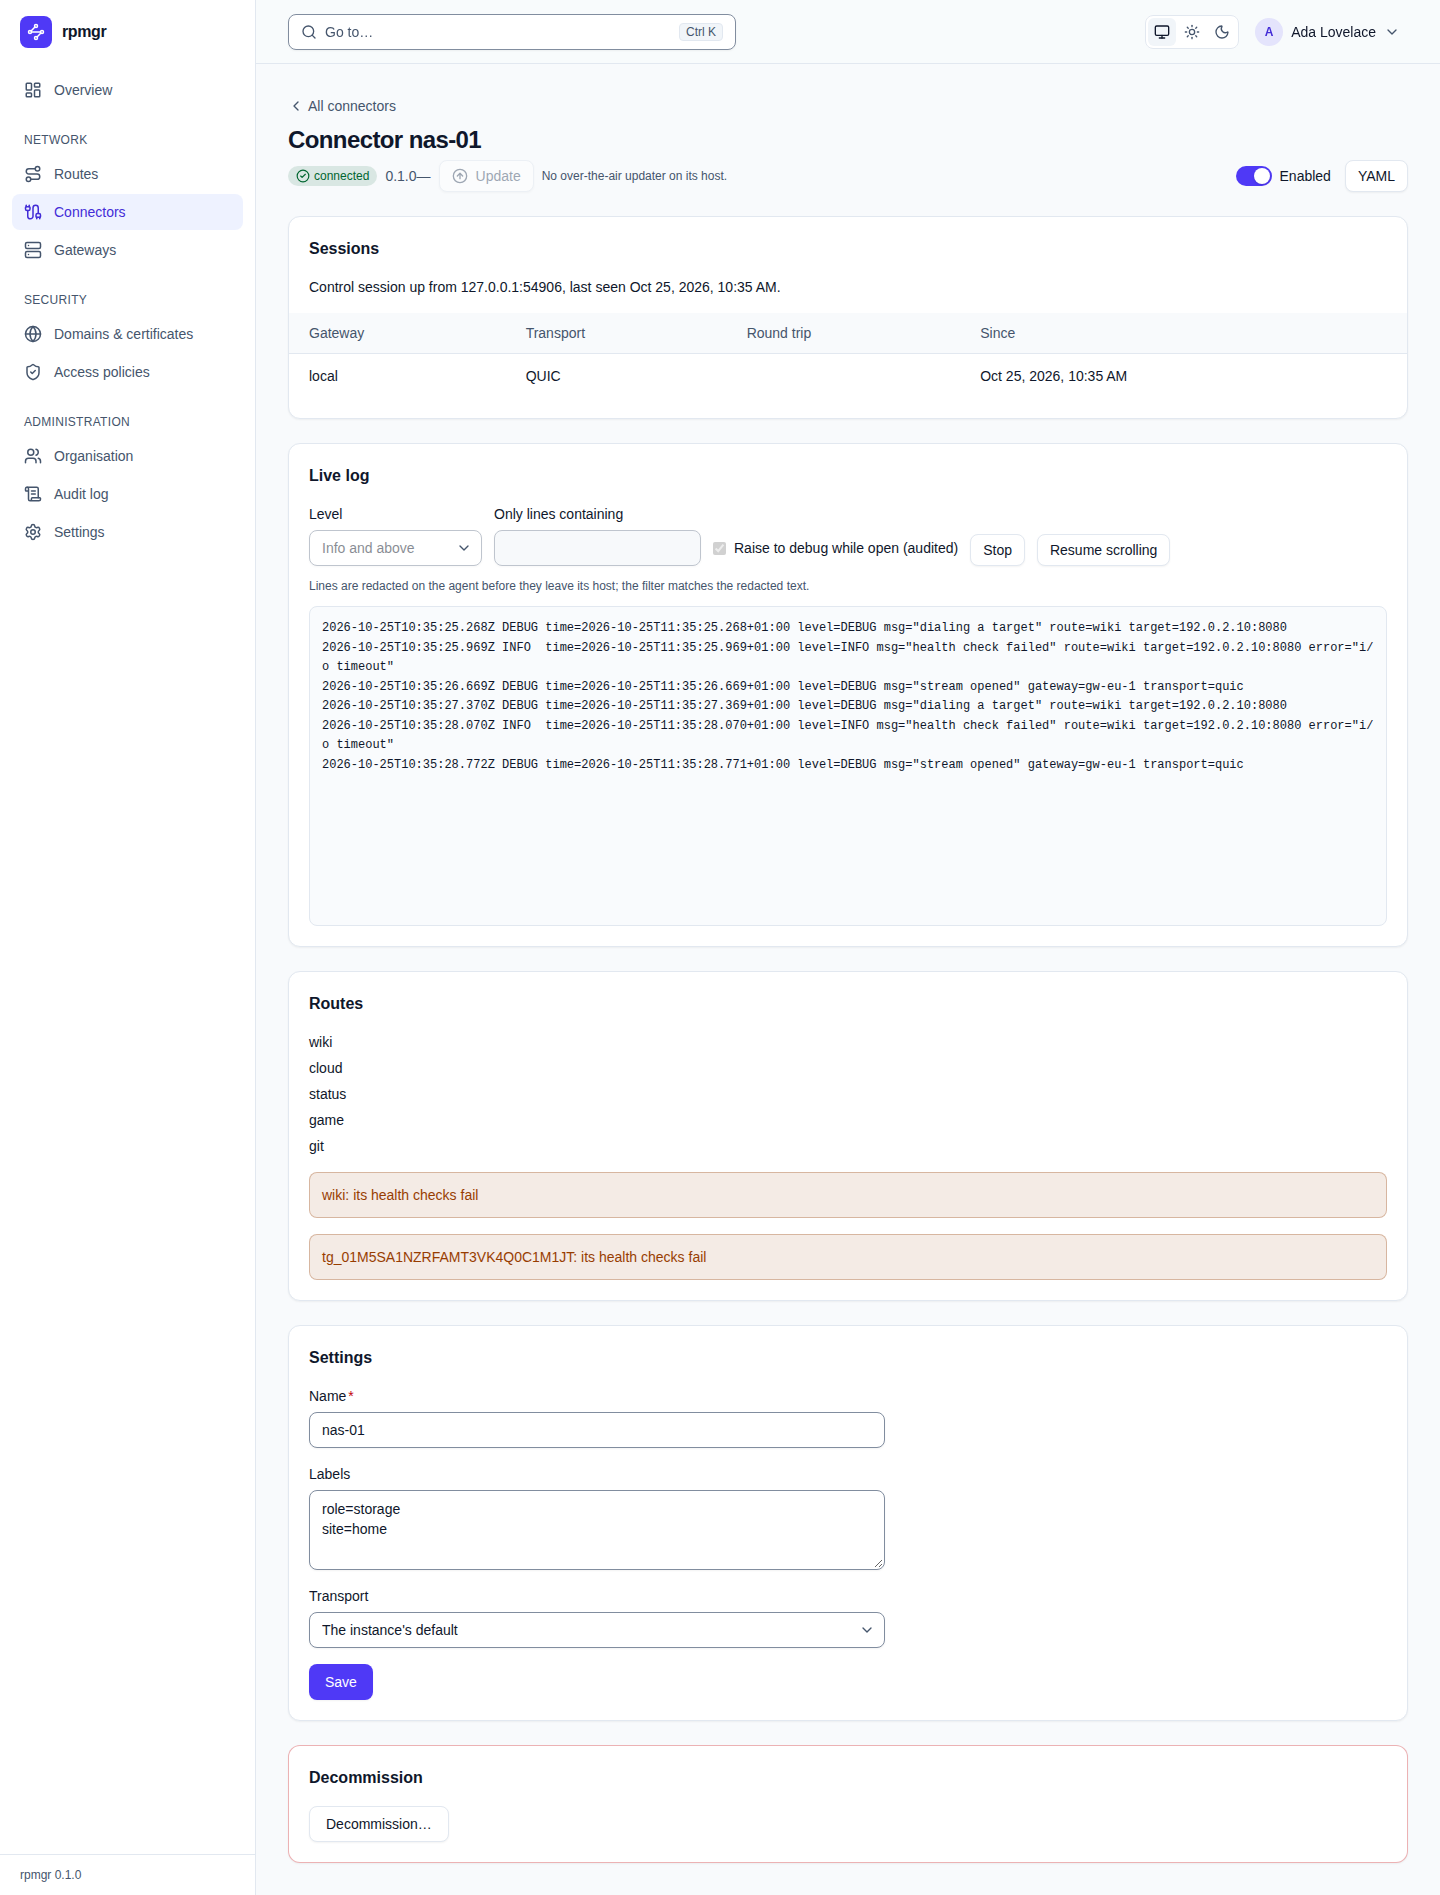
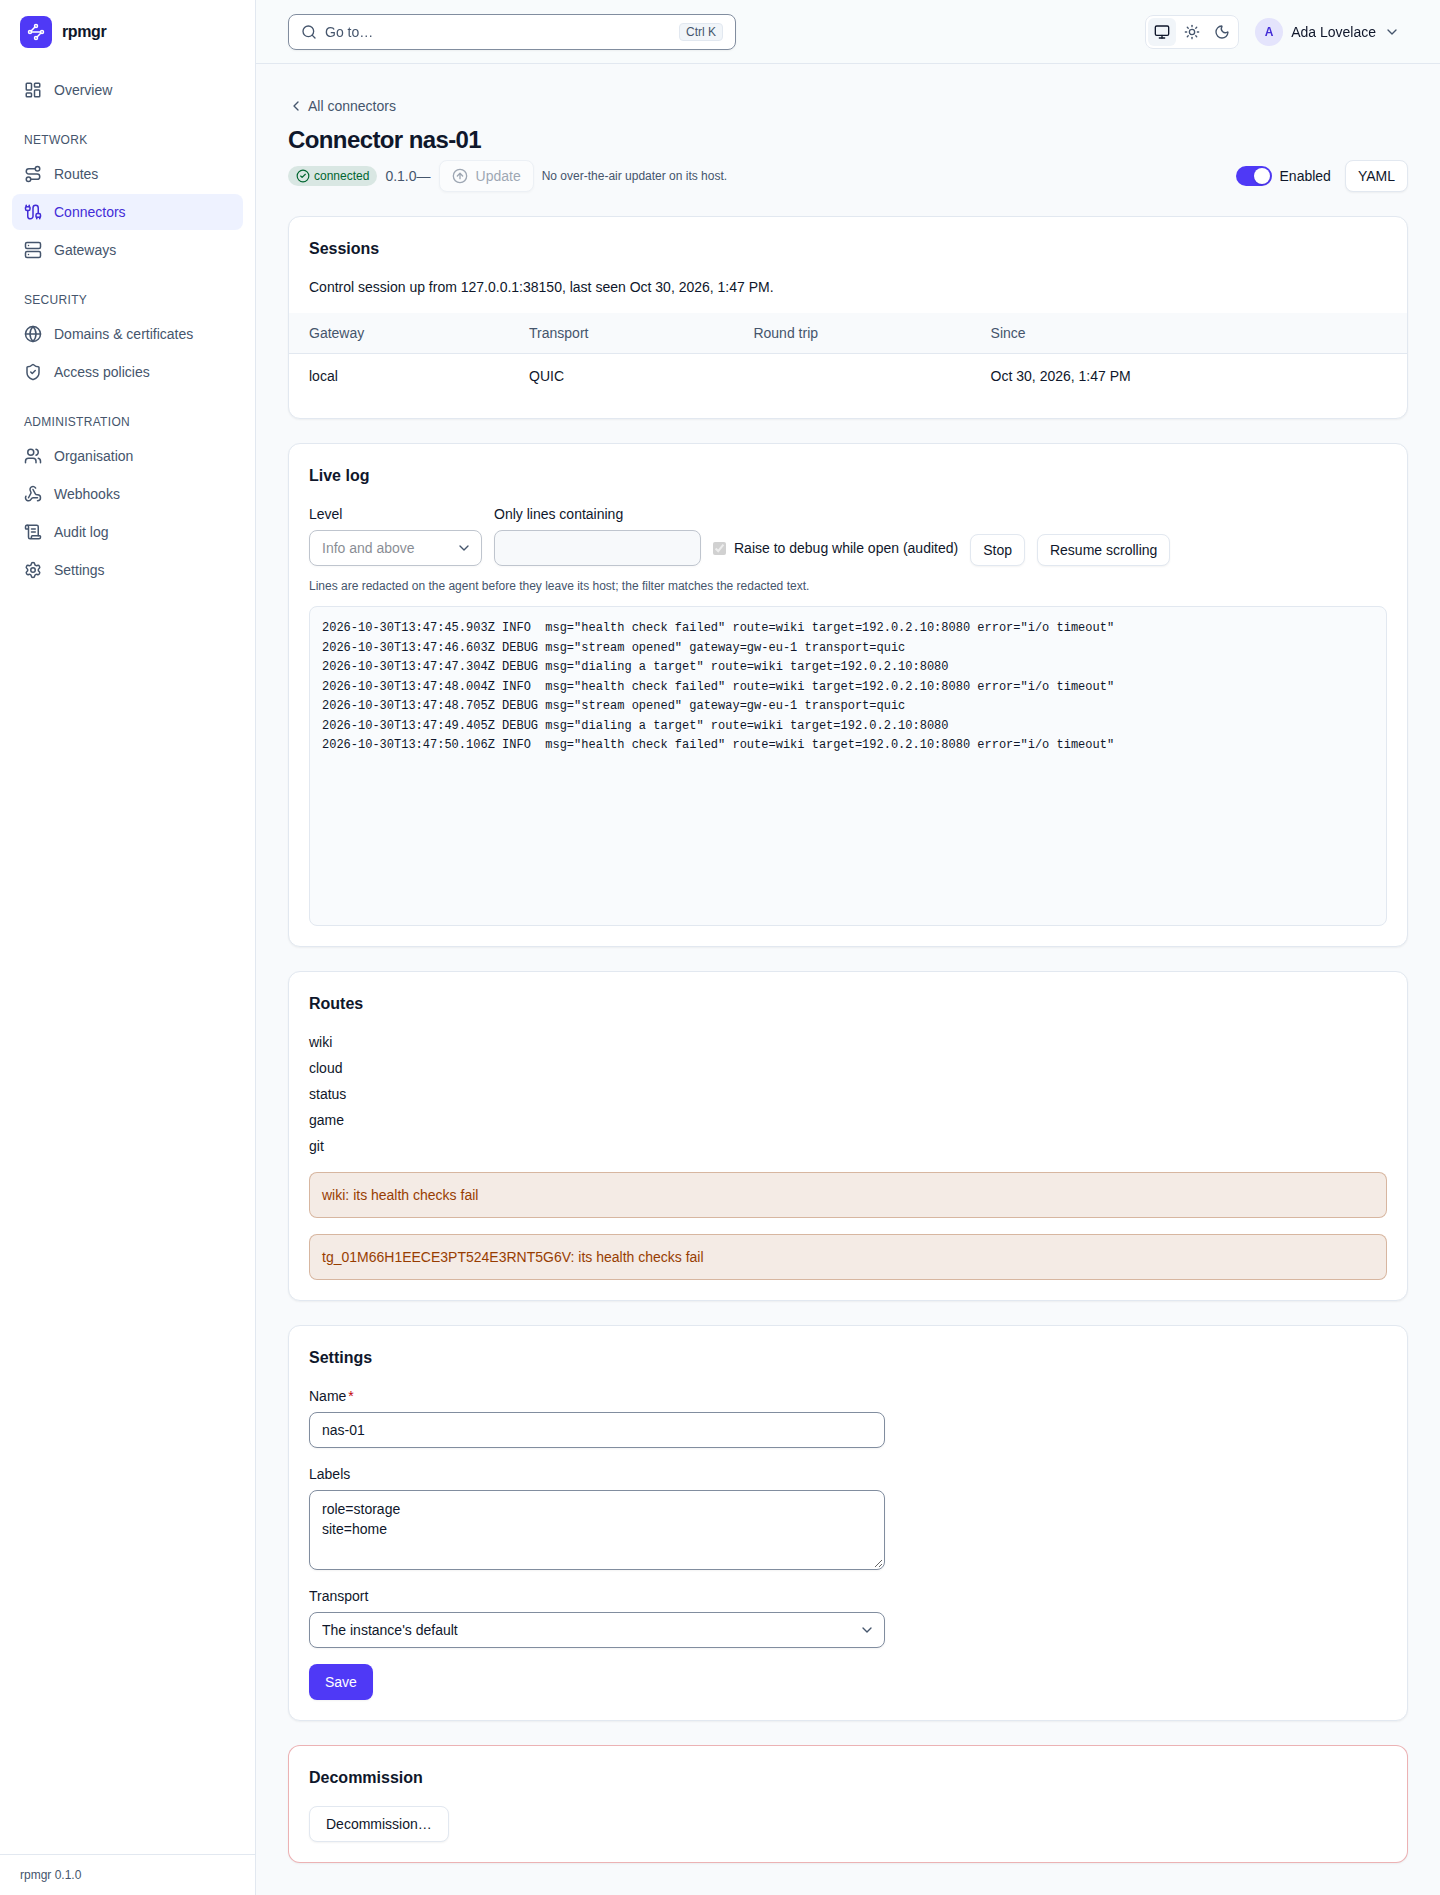
feat(web): show earlier lines and the connected state in the live log
The panel marks the agent's backlog as earlier lines, with a divider before the first new line and a note of how many older lines are gone. While no new line has arrived it says Connected – no new lines yet with the level it follows, in place of Waiting for the first line. Refreshes the connector screenshot.

Closes #973

diff --git a/web/src/components/live-log.tsx b/web/src/components/live-log.tsx
@@ -16,12 +16,14 @@ export const canStreamLogs = (role?: string) => role === "owner" || role === "ad
 // keptLines is how many lines the panel keeps; older ones scroll away for good.
 const keptLines = 2000;
 
-type Shown = { key: number; text: string; level?: string };
+type Shown = { key: number; text: string; level?: string; earlier?: boolean };
 
 // LiveLog streams a connector's or gateway's live log, redacted on the agent (docs/09-web-ui.md,
 // "Live logs, webhooks and audit sinks (Phase 2)"): a level and a text filter, Raise to debug, and
 // Pause, which stops the panel scrolling while lines keep arriving. A marker shows where the agent
-// dropped or cut lines; when the stream ends at its deadline the panel says so and offers to go on.
+// dropped or cut lines; the lines the agent kept from before the log opened come first, marked as
+// earlier ones (D154), and while no new line has arrived the panel says it is connected, with the
+// level it follows. When the stream ends at its deadline the panel says so and offers to go on.
 export function LiveLog({ agentId }: { agentId: string }) {
   const { t } = useTranslation();
   const transport = useTransport();
@@ -33,6 +35,8 @@ export function LiveLog({ agentId }: { agentId: string }) {
   const [paused, setPaused] = useState(false);
   const [lines, setLines] = useState<Shown[]>([]);
   const [ended, setEnded] = useState("");
+  const [fresh, setFresh] = useState(false); // a new line, not an earlier one, has arrived
+  const [followed, setFollowed] = useState("info"); // the level the running log follows
   const abort = useRef<AbortController>(undefined);
   const counter = useRef(0);
   const panel = useRef<HTMLPreElement>(null);
@@ -47,10 +51,10 @@ export function LiveLog({ agentId }: { agentId: string }) {
   const shown = (l: LogLine): Shown[] => {
     const out: Shown[] = [];
     if (l.droppedBefore > 0) {
-      out.push({ key: counter.current++, text: t("liveLog.dropped", { count: l.droppedBefore }) });
+      out.push({ key: counter.current++, text: t(l.backlog ? "liveLog.goneEarlier" : "liveLog.dropped", { count: l.droppedBefore }) });
     }
     const at = l.time ? timestampDate(l.time).toISOString() : "";
-    out.push({ key: counter.current++, level: l.level, text: `${at} ${l.level.toUpperCase().padEnd(5)} ${l.text}${l.truncated ? ` ${t("liveLog.cut")}` : ""}` });
+    out.push({ key: counter.current++, level: l.level, earlier: l.backlog, text: `${at} ${l.level.toUpperCase().padEnd(5)} ${l.text}${l.truncated ? ` ${t("liveLog.cut")}` : ""}` });
     return out;
   };
 
@@ -59,12 +63,17 @@ export function LiveLog({ agentId }: { agentId: string }) {
     const a = new AbortController();
     abort.current = a;
     setEnded("");
+    setFresh(false);
+    setFollowed(debug ? "debug" : level);
     setRunning(true);
     try {
       const stream = createClient(LogService, transport).streamLogs({ agentId, level, filter, raiseToDebug: debug }, { signal: a.signal });
       for await (const m of stream) {
         if (m.line) {
           const add = shown(m.line);
+          if (!m.line.backlog) {
+            setFresh(true);
+          }
           setLines((ls) => [...ls, ...add].slice(-keptLines));
         }
       }
@@ -119,9 +128,11 @@ export function LiveLog({ agentId }: { agentId: string }) {
       {ended && <Alert>{ended}</Alert>}
       <pre ref={panel} id={id} role="log" aria-label={t("liveLog.panel")} tabIndex={0}
         className="h-80 overflow-auto rounded-lg border border-border bg-muted/40 p-3 font-mono text-xs leading-relaxed whitespace-pre-wrap break-all">
-        {lines.length === 0 ? <span className="text-muted-foreground">{running ? t("liveLog.waiting") : t("liveLog.empty")}</span>
-          : lines.map((l) => <div key={l.key} className={l.level ? undefined : "text-muted-foreground italic"}>{l.text}</div>)}
+        {lines.length === 0 ? <span className="text-muted-foreground">{running ? t("liveLog.connecting") : t("liveLog.empty")}</span>
+          : lines.map((l) => <div key={l.key} className={l.level && !l.earlier ? undefined : "text-muted-foreground italic"}
+            title={l.earlier ? t("liveLog.earlier") : undefined}>{l.text}</div>)}
       </pre>
+      {running && !fresh && <p role="status" className="text-xs text-muted-foreground">{t("liveLog.connected", { level: t(`liveLog.levels.${followed}`) })}</p>}
     </div>
   );
 }

diff --git a/CHANGELOG.md b/CHANGELOG.md
@@ -12,6 +12,14 @@ Changes to the design documents are not recorded here: see the git history and t
 
 ### Added
 
+- Live logs are useful on a healthy agent. A new live log starts with the agent's latest lines, up
+  to 200 lines and 64 KiB after redaction, marked as earlier lines in the web UI and in `rpmgr
+  logs`, with how many older lines are gone. Connectors and gateways now log what they do: the
+  configuration applied with its routes, routes not ready, target health changes with the reason,
+  data sessions opened and ended and, at debug level, each stream with its duration and bytes,
+  never request contents or headers. The panel says "Connected – no new lines yet" with its level
+  instead of "Waiting for the first line…". (#973)
+
 - Webhook endpoints can be managed through the API: `WebhookService` creates, lists, changes and
   deletes an organisation's endpoints, rotates an endpoint's secret, lists its deliveries and sends
   a test event. The secret, `rpmgr_whs_…`, is shown once when it is made or rotated; after a
